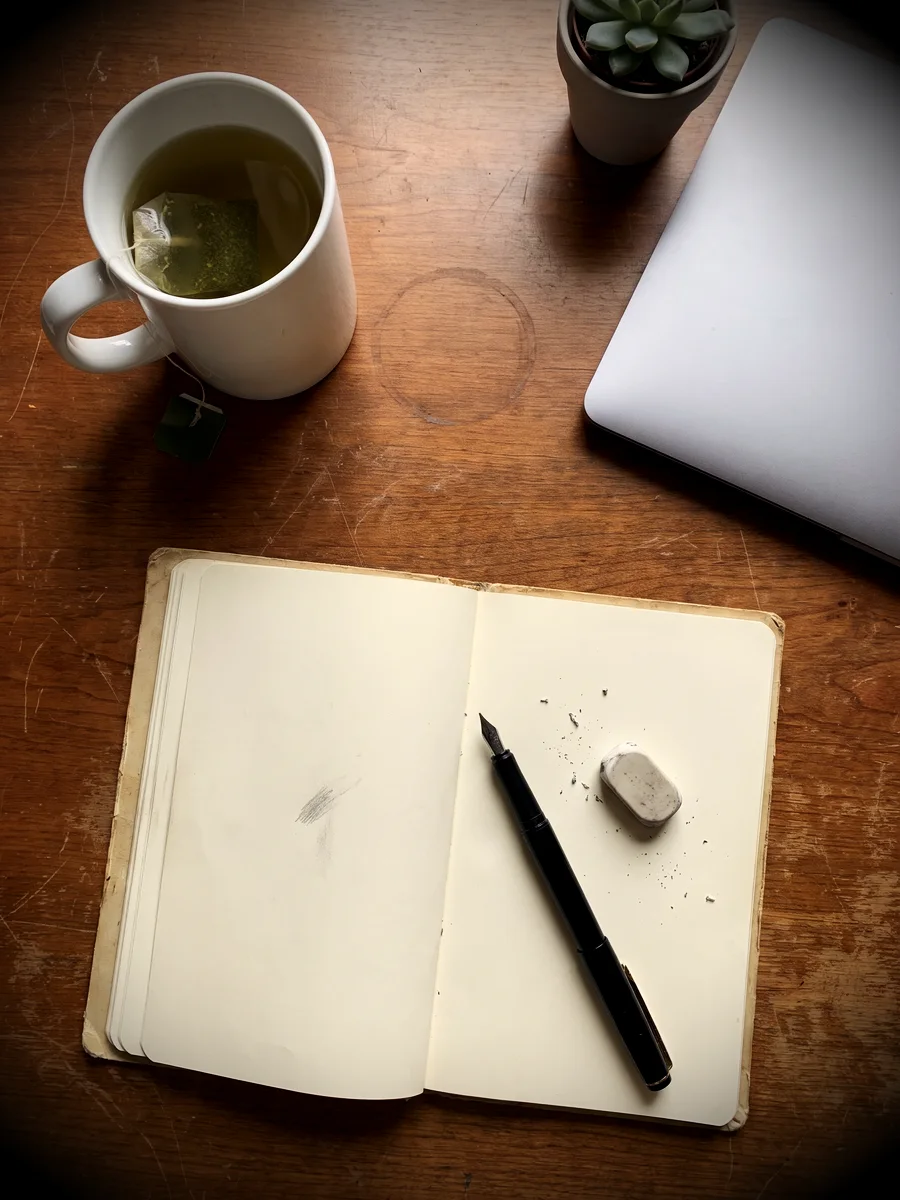
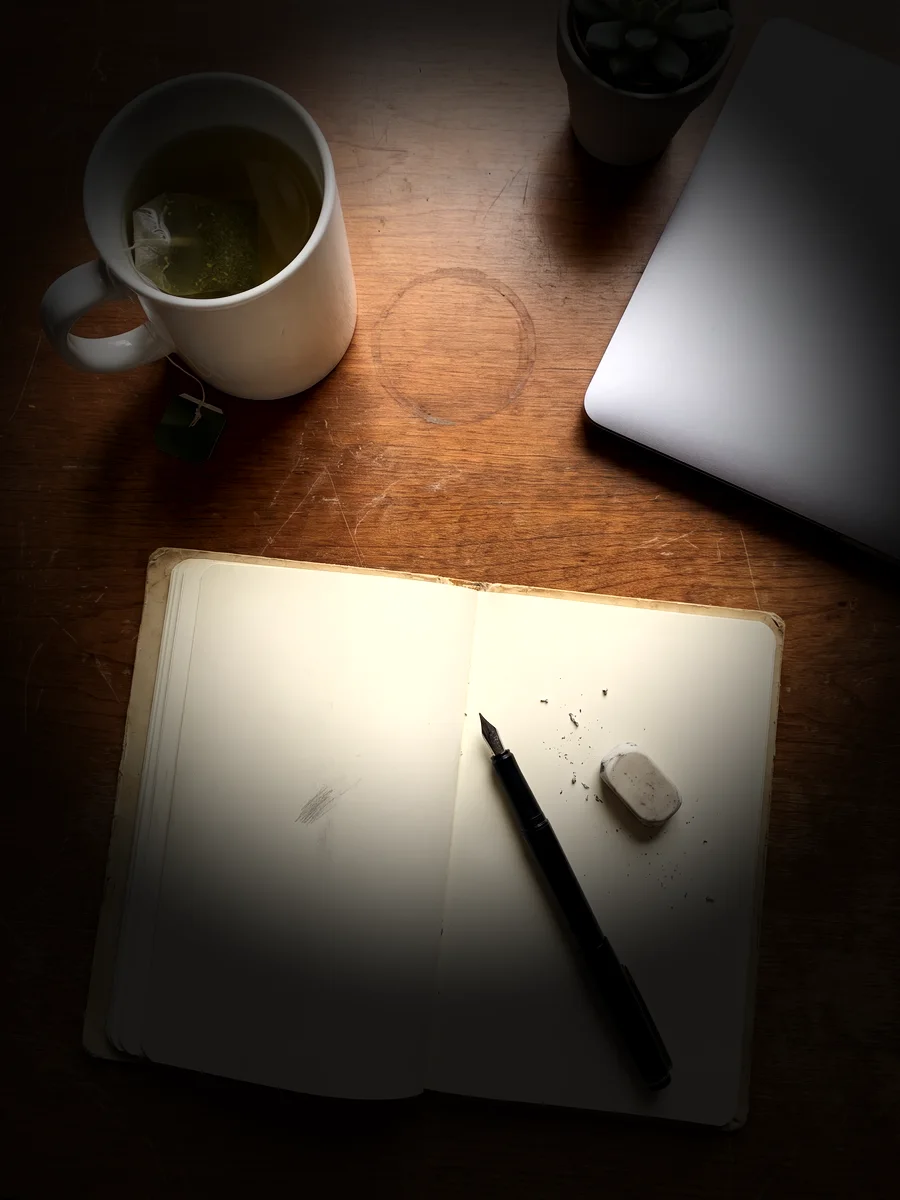
feat(filters): 스포트라이트 — 더 강하게(밖 ×0.1) + 위치 지정: 편집기에서 사진 탭, iOS 카메라에서 화면 탭(찍힌 사진에도 그 위치); 피사체 글로우 iOS 를 앱 sRGB 작업공간 기준으로 바로잡음(검증 도구가 선형이라 잘못 보정했던 것 되돌림) — 웹·iOS 결과 일치 확인; 미배포
Claude-Session: https://claude.ai/code/session_01H2YvAQhUpTna7rrNEqetDc

diff --git a/src/PhotoEditor.jsx b/src/PhotoEditor.jsx
@@ -184,7 +184,7 @@ function drawSticker(ctx, st, w, h) {
 const fxOf = (p) => ({
   grain: p?.fx?.grain || 0, vignette: p?.fx?.vignette || 0, leak: p?.fx?.leak || 0,
   glow: p?.fx?.glow || 0, blur: p?.fx?.blur || 0, shake: p?.fx?.shake || 0,
-  twinkle: p?.fx?.twinkle || 0, lowres: p?.fx?.lowres || 0,
+  twinkle: p?.fx?.twinkle || 0, lowres: p?.fx?.lowres || 0, spot: p?.fx?.spot || 0,
 });
 
 // src(1장) 또는 srcs(여러 장, 최대 10) 를 받는다. 여러 장이면 필터/효과는 전체
@@ -247,11 +247,14 @@ export default function PhotoEditor({ src, srcs, initialPresetKey = "none", init
     lens: 0,   // 렌즈 왜곡 보정 -1..1 (0 = 원본)
     geo: { tilt: 0, pv: 0, ph: 0 },
     geoAuto: null,
+    spotPos: null,
   });
   const [lookByIdx, setLookByIdx] = useState({});
   const lookOf = (i) => lookByIdx[i] || defaultLook(i);
+  // 스포트라이트 위치(사진별, 0~1) — 스포트라이트 필터일 때 사진을 탭하면 그 자리로(오너 2026-10-27).
+  const [spotPos, setSpotPos] = useState(null);
   function updateLook(patch) {
-    const next = { presetKey, fx, strength, fxAmt, lens, geo, geoAuto, ...patch };
+    const next = { presetKey, fx, strength, fxAmt, lens, geo, geoAuto, spotPos, ...patch };
     setPresetKey(next.presetKey);
     setFx(next.fx);
     setStrength(next.strength);
@@ -259,6 +262,7 @@ export default function PhotoEditor({ src, srcs, initialPresetKey = "none", init
     setLens(next.lens || 0);
     setGeo(next.geo || ZERO_GEO);
     setGeoAuto(next.geoAuto || null);
+    setSpotPos(next.spotPos || null);
     setLookByIdx((p) => ({ ...p, [idx]: next }));
   }
   function switchPhoto(i) {
@@ -270,6 +274,7 @@ export default function PhotoEditor({ src, srcs, initialPresetKey = "none", init
     setLens(lk.lens || 0);
     setGeo(lk.geo || ZERO_GEO);
     setGeoAuto(lk.geoAuto || null);
+    setSpotPos(lk.spotPos || null);
     const g = presetByKey(lk.presetKey).group;
     if (g) setChipGroup(g);
     setReady(false);
@@ -467,11 +472,11 @@ export default function PhotoEditor({ src, srcs, initialPresetKey = "none", init
         personMaskRef.current[idx] = null;
         personMaskFor(baseRef.current).then((m) => { personMaskRef.current[idx] = m; setMaskTick((t) => t + 1); });
       }
-      applyLookWithStrength(copy.data, w, h, presetByKey(presetKey), { ...fx, seed: GRAIN_SEED, faces: facesFor(idx, lens, geo), personMask: personMaskRef.current[idx] || undefined }, strength);
+      applyLookWithStrength(copy.data, w, h, presetByKey(presetKey), { ...fx, seed: GRAIN_SEED, faces: facesFor(idx, lens, geo), personMask: personMaskRef.current[idx] || undefined, spotPos: spotPos || undefined }, strength);
       ctx.putImageData(copy, 0, 0);
       if (dateStyle !== "none") drawDateStamp(ctx, w, h, dateStyle);
     });
-  }, [presetKey, fx, dateStyle, peeking, strength, lens, geo, idx, maskTick]); // eslint-disable-line react-hooks/exhaustive-deps
+  }, [presetKey, fx, dateStyle, peeking, strength, lens, geo, idx, maskTick, spotPos]); // eslint-disable-line react-hooks/exhaustive-deps
 
   useEffect(() => { if (ready) renderPreview(); }, [ready, renderPreview, idx]);
 
@@ -910,7 +915,7 @@ export default function PhotoEditor({ src, srcs, initialPresetKey = "none", init
       const lk = lookOf(i);
       const hasLook = lk.presetKey !== "none"
         || lk.fx.grain || lk.fx.vignette || lk.fx.leak || lk.fx.glow || lk.fx.blur || lk.fx.shake
-        || lk.fx.twinkle || lk.fx.lowres;
+        || lk.fx.twinkle || lk.fx.lowres || lk.fx.spot;
       // ⚠ 왜곡 보정은 룩이 없어도 저장본에 반영돼야 한다 — hasLook 에만 걸어두면
       //    "필터 없이 왜곡만 고친" 사진이 원본 그대로 저장된다.
       const g = lk.geo || {};
@@ -922,7 +927,7 @@ export default function PhotoEditor({ src, srcs, initialPresetKey = "none", init
         const out = await applyLookAsync({
           data: id.data, w, h,
           preset: hasLook ? presetByKey(lk.presetKey) : null,
-          effects: hasLook ? { ...lk.fx, seed: GRAIN_SEED, faces: facesFor(i, lk.lens, lk.geo),
+          effects: hasLook ? { ...lk.fx, seed: GRAIN_SEED, faces: facesFor(i, lk.lens, lk.geo), spotPos: (i === idx ? spotPos : lk.spotPos) || undefined,
             personMask: (lk.presetKey === "flashsoft" || lk.presetKey === "flashhard" || lk.presetKey === "subjectglow") ? (personMaskRef.current[i] || await personMaskFor(id)) || undefined : undefined } : {},
           strength: lk.strength,
           geo: hasGeo ? g : null, lens: lk.lens || 0,
@@ -1156,6 +1161,11 @@ export default function PhotoEditor({ src, srcs, initialPresetKey = "none", init
                 if (Date.now() - s.t > 320) return;                       // 길게 누름 = 원본 비교
                 if (Math.hypot(e.clientX - s.x, e.clientY - s.y) > 8) return;
                 if (s.hadSel) return;                                     // 선택 해제만
+                if (presetKey === "spotlight") {                          // 스포트라이트: 탭 = 조명 위치
+                  const r = e.currentTarget.getBoundingClientRect();
+                  const pos = { x: Math.min(1, Math.max(0, (e.clientX - r.left) / r.width)), y: Math.min(1, Math.max(0, (e.clientY - r.top) / r.height)) };
+                  hap.tap(); updateLook({ spotPos: pos }); return;
+                }
                 openTextAt(e.clientX, e.clientY);
               }}
               onPointerCancel={(e) => {
@@ -1276,6 +1286,7 @@ export default function PhotoEditor({ src, srcs, initialPresetKey = "none", init
                     // 프리셋 기본 효과까지 원탭 적용, 색감은 기본값(0.7 = 표준 룩)·효과는 1(프리셋 그대로)로 리셋
                     updateLook({ presetKey: p.key, fx: fxOf(p), strength: 0.7, fxAmt: 1 });
                     markFilterUsed(p.key);
+                    if (p.key === "spotlight") flashToast(getLang() === "ko" ? "사진을 탭하면 조명이 그 자리로 옮겨가요" : "Tap the photo to move the spotlight");
                   }}
                 >
                   <canvas

diff --git a/ios2/rimikimi/UI/Camera/LiveFilter.swift b/ios2/rimikimi/UI/Camera/LiveFilter.swift
@@ -45,7 +45,9 @@ enum LiveFilter {
         var grain: Double = 0, vignette: Double = 0, leak: Double = 0, glow: Double = 0, blur: Double = 0
         /// 저해상도 칸 크기(짧은 변 대비) — filters.js lowres
         var lowres: Double = 0
-        var any: Bool { grain > 0 || vignette > 0 || leak > 0 || glow > 0 || blur > 0 || lowres > 0 }
+        /// 스포트라이트 세기(filters.js spot) — 위치는 엔진의 `spotPos`(세운 프레임, 위가 0인 0~1).
+        var spot: Double = 0
+        var any: Bool { grain > 0 || vignette > 0 || leak > 0 || glow > 0 || blur > 0 || lowres > 0 || spot > 0 }
     }
 
     struct Preset {
@@ -140,7 +142,7 @@ enum LiveFilter {
         // 효과 5종(오너 2026-10-27 "효과 10개") — filters.js 와 같은 값.
         "lightleak": .init(temp: 14, tint: 4, ex: 0.06, con: 0.08, fade: 10, whitePull: 6, sat: 0.06, vib: 0.1, sh: [6, 0, -4], hi: [14, 6, -6], fx: .init(grain: 0.3, leak: 1.8)),
         "softfocus": .init(temp: 4, tint: 4, ex: 0.1, con: -0.2, fade: 14, whitePull: 10, sat: -0.06, vib: 0.06, sh: [4, 2, 4], hi: [8, 6, 4], fx: .init(glow: 1.0, blur: 0.1)),
-        "spotlight": .init(temp: 6, ex: -0.06, con: 0.32, sat: 0.04, vib: 0.06, sh: [-8, -8, -6], hi: [10, 8, 4], fx: .init(grain: 0.15, vignette: 2.6)),
+        "spotlight": .init(temp: 6, ex: -0.02, con: 0.32, sat: 0.04, vib: 0.06, sh: [-8, -8, -6], hi: [10, 8, 4], fx: .init(grain: 0.15, spot: 1)),
         "grainy": .init(temp: 6, tint: 2, con: 0.22, fade: 14, whitePull: 8, sat: -0.3, sh: [4, 2, -2], hi: [6, 4, -4], fx: .init(grain: 2.2, vignette: 0.35)),
         "haze": .init(temp: -8, tint: 2, ex: 0.12, con: -0.3, fade: 34, whitePull: 24, sat: -0.22, sh: [6, 8, 12], hi: [6, 8, 10], fx: .init(glow: 0.6, blur: 0.12)),
         "neonglow": .init(temp: -12, tint: 14, ex: 0.02, con: 0.3, sat: 0.3, vib: 0.2, sh: [6, -6, 22], hi: [10, 0, 14], hsl: [.init(c: 300, w: 50, h: 0, s: 0.5, l: 0.04), .init(c: 190, w: 40, h: 0, s: 0.45, l: 0.04)], fx: .init(glow: 0.8)),
@@ -636,6 +638,8 @@ extern "C" [[stitchable]] float4 lfInfl(coreimage::sampler src, coreimage::sampl
 
 /// 커널 묶음 + 프리셋 적용. 렌더 큐 한 곳에서만 쓴다(LUT 캐시가 잠금 없이 돈다).
 final class LiveFilterEngine {
+    /// 스포트라이트 위치(세운 프레임 기준 0~1, 위가 0). nil = 가운데 약간 위. 카메라 탭에서 화면을 탭하면 바뀐다.
+    var spotPos: CGPoint?
     private let kernels: [String: CIKernel]
     private var lutCache: [String: CIImage] = [:]
 
@@ -737,6 +741,20 @@ final class LiveFilterEngine {
         if p.fx.grain > 0 || p.fx.vignette > 0 || p.fx.leak > 0 {
             img = run("lfFx", ext, [img], [img, p.fx.grain, p.fx.vignette, p.fx.leak, 7, W, H])
         }
+        if p.fx.spot > 0 {
+            // 스포트라이트 — filters.js 와 같은 반경(짧은 변 0.5 × 0.45~1.15), 같은 세기(밖 ×0.1, 안 ×1.06).
+            let pos = spotPos ?? CGPoint(x: 0.5, y: 0.42), R = minWH * 0.5
+            let c = CIVector(x: ext.minX + pos.x * W, y: ext.minY + (1 - pos.y) * H)
+            let grad = CIFilter(name: "CIRadialGradient", parameters: ["inputCenter": c, "inputRadius0": R * 0.45, "inputRadius1": R * 1.15,
+                                                                     "inputColor0": CIColor.white, "inputColor1": CIColor.black])!.outputImage!.cropped(to: ext)
+            // 작업공간이 sRGB(contextOptions)라 웹과 같은 곱셈을 그대로 쓴다.
+            func ks(_ v: CGFloat) -> CIImage {
+                img.applyingFilter("CIColorMatrix", parameters: ["inputRVector": CIVector(x: v, y: 0, z: 0, w: 0), "inputGVector": CIVector(x: 0, y: v, z: 0, w: 0),
+                                                                 "inputBVector": CIVector(x: 0, y: 0, z: v, w: 0)])
+            }
+            let dark = 1 - 0.9 * CGFloat(p.fx.spot), lit = 1 + 0.06 * CGFloat(p.fx.spot)
+            img = ks(lit).applyingFilter("CIBlendWithMask", parameters: [kCIInputBackgroundImageKey: ks(dark), kCIInputMaskImageKey: grad]).cropped(to: ext)
+        }
         if p.fx.glow > 0 {
             let soft = box(img, jsRound(minWH * 0.015) + 2, W, H)
             img = run("lfGlow", ext, [img, soft], [img, soft, p.fx.glow * 0.85, p.fx.glow * 10])
@@ -835,14 +853,14 @@ final class LiveFilterEngine {
                 .applyingFilter("CIColorClamp")
         }
         guard (try? VNImageRequestHandler(ciImage: img).perform([segReq])) != nil, let pb = segReq.results?.first?.pixelBuffer else {
-            return mul(img, 0.6).cropped(to: ext)
+            return mul(img, 0.8).cropped(to: ext)
         }
         // 마스크는 색이 아니라 데이터 — 색공간 없이 읽어야 감마로 값이 줄지 않는다(실측: 머리 쪽 글로우가 빠졌다).
         let raw = CIImage(cvPixelBuffer: pb, options: [.colorSpace: NSNull()])
         let m = raw.transformed(by: .init(scaleX: W / raw.extent.width, y: H / raw.extent.height)).clampedToExtent()
             .applyingGaussianBlur(sigma: Double(W) * 0.0015).cropped(to: ext)
-        // CI 는 선형 공간에서 곱한다 — 웹(sRGB)의 ×0.62 와 같게 보이려면 0.62^2.2 ≈ 0.35(실측: 0.62 면 0.8 처럼 보였다).
-        let bg = mul(img.applyingFilter("CIColorControls", parameters: [kCIInputSaturationKey: 0.85]), 0.35)
+        // 작업공간이 sRGB(contextOptions)라 웹과 같은 ×0.62 를 그대로 쓴다.
+        let bg = mul(img.applyingFilter("CIColorControls", parameters: [kCIInputSaturationKey: 0.85]), 0.62)
         let base = img.applyingFilter("CIBlendWithMask", parameters: [kCIInputBackgroundImageKey: bg, kCIInputMaskImageKey: m])
         let inv = m.applyingFilter("CIColorInvert")
         let near = mul(m.clampedToExtent().applyingGaussianBlur(sigma: Double(W) * 0.0036).cropped(to: ext), 1.6)

diff --git a/src/filters.js b/src/filters.js
@@ -209,8 +209,9 @@ export const FILM_PRESETS = [
     temp: 4, tint: 4, ex: 0.1, con: -0.2, fade: 14, whitePull: 10, sat: -0.06, vib: 0.06, sh: [4, 2, 4], hi: [8, 6, 4],
     fx: { glow: 1.0, blur: 0.1 } },
   { key: "spotlight", ko: "스포트라이트", en: "Spotlight", group: "mood",
-    temp: 6, tint: 0, ex: -0.06, con: 0.32, fade: 0, whitePull: 0, sat: 0.04, vib: 0.06, sh: [-8, -8, -6], hi: [10, 8, 4],
-    fx: { vignette: 2.6, grain: 0.15 } },
+    temp: 6, tint: 0, ex: -0.02, con: 0.32, fade: 0, whitePull: 0, sat: 0.04, vib: 0.06, sh: [-8, -8, -6], hi: [10, 8, 4],
+    // 조명 동그라미 밖을 깊게 어둡게(오너 10/27 "더 강하게"). 위치 = effects.spotPos {x,y}(0~1) — 편집기에서 사진을 탭해 옮긴다. 없으면 가운데 약간 위.
+    fx: { spot: 1, grain: 0.15 } },
   { key: "grainy",    ko: "거친 입자",   en: "Heavy Grain", group: "mood",
     temp: 6, tint: 2, ex: 0, con: 0.22, fade: 14, whitePull: 8, sat: -0.3, vib: 0, sh: [4, 2, -2], hi: [6, 4, -4],
     fx: { grain: 2.2, vignette: 0.35 } },
@@ -286,7 +287,7 @@ export function applyLookWithStrength(data, w, h, preset, effects = {}, strength
     }
   }
   // 효과는 항상 원 강도로 (프리셋 위에)
-  if (effects.grain || effects.vignette || effects.leak || effects.blur || effects.shake || effects.glow || effects.lowres) {
+  if (effects.grain || effects.vignette || effects.leak || effects.blur || effects.shake || effects.glow || effects.lowres || effects.spot) {
     applyLook(data, w, h, null, effects);
   }
   return data;
@@ -513,6 +514,8 @@ export function applyLook(data, w, h, preset, effects = {}) {
 
   const grain = effects.grain || 0;
   const vig = effects.vignette || 0;
+  const spot = effects.spot || 0;
+  const spX = (effects.spotPos?.x ?? 0.5) * w, spY = (effects.spotPos?.y ?? 0.42) * h, spR = Math.min(w, h) * 0.5;
   const leak = effects.leak || 0;
   const blur = effects.blur || 0;
   const shake = effects.shake || 0;
@@ -675,6 +678,15 @@ export function applyLook(data, w, h, preset, effects = {}) {
         // 0.55 부터 서서히 어두워짐
         const t = d < 0.55 ? 0 : (d - 0.55) / 0.45;
         const f = 1 - vig * 0.5 * t * t;
+        r *= f; g *= f; b *= f;
+      }
+
+      if (spot) {
+        // 스포트라이트 — 조명 원(반경 = 짧은 변의 ~22%) 안은 살짝 밝게, 밖으로 갈수록 깊게(최대 ×0.1) 어둡게.
+        const d = Math.hypot(x - spX, y - spY) / spR;
+        const t = d < 0.45 ? 0 : d > 1.15 ? 1 : (d - 0.45) / 0.7;
+        const e = t * t * (3 - 2 * t);
+        const f = (1 + 0.06 * spot) * (1 - e) + (1 - 0.9 * spot) * e;
         r *= f; g *= f; b *= f;
       }
 

diff --git a/ios2/rimikimi/UI/Camera/BurstCameraModel.swift b/ios2/rimikimi/UI/Camera/BurstCameraModel.swift
@@ -189,10 +189,10 @@ final class BurstCameraModel {
         }
         // 필터는 **셔터를 누른 순간** 값으로 고정한다 — 사진은 화질 우선 처리라 최대 1초 뒤에 도착하는데, 그때 읽으면
         // 그 사이 바꾼 필터가 들어갔다(오너 2026-10-11 "필터 2개로 1장씩 찍었는데 하나로만 저장됐어").
-        let key = live?.presetKey ?? "none", fx = live?.fxAmount ?? 0.7
+        let key = live?.presetKey ?? "none", fx = live?.fxAmount ?? 0.7, spot = live?.spotPos
         let id = s.uniqueID
         let d = ShotDelegate(wantMirror: want) { [weak self] image in
-            Task { @MainActor in self?.inFlight[id] = nil; self?.add(image, key: key, fx: fx) }
+            Task { @MainActor in self?.inFlight[id] = nil; self?.add(image, key: key, fx: fx, spot: spot) }
         }
         inFlight[id] = d             // 콜백이 올 때까지 살려 둔다
         output.capturePhoto(with: s, delegate: d)
@@ -204,7 +204,7 @@ final class BurstCameraModel {
         }
     }
 
-    private func add(_ image: UIImage?, key: String, fx: Double) {
+    private func add(_ image: UIImage?, key: String, fx: Double, spot: CGPoint? = nil) {
         guard let image else { return }
         if savesOnCapture {
             // 카메라 탭: 원본은 남기지 않는다 — 필터본만 사진첩에(오너 2026-10-11 "원본은 없애고 필터 촬영본만").
@@ -212,6 +212,7 @@ final class BurstCameraModel {
             Self.bakeQueue.async { [weak self] in
                 var out = image
                 if key != "none", let engine = Self.bakeEngine, let ci = CIImage(image: image) {
+                    engine.spotPos = spot
                     let r = engine.render(frame: ci, key: key, intensity: fx)
                     if let cg = Self.bakeCtx.createCGImage(r, from: r.extent, format: .RGBA8, colorSpace: CGColorSpace(name: CGColorSpace.sRGB)!) { out = UIImage(cgImage: cg, scale: 1, orientation: .up) }
                 }

diff --git a/ios2/rimikimi/UI/Camera/LiveFilterPreview.swift b/ios2/rimikimi/UI/Camera/LiveFilterPreview.swift
@@ -31,6 +31,22 @@ final class LiveFilterRenderer: NSObject, AVCaptureVideoDataOutputSampleBufferDe
 
     private var _front = false
     private var _mirrored = false
+    private var _spotPos: CGPoint?
+    /// 스포트라이트 위치(세운 화면 0~1, 위=0) — 스포트라이트 필터일 때 화면 탭으로 옮긴다(오너 2026-10-27).
+    var spotPos: CGPoint? {
+        get { lock.withLock { _spotPos } }
+        set { lock.withLock { _spotPos = newValue } }
+    }
+    /// 화면(뷰) 좌표 → 세운 프레임 0~1(위=0). aspectFill 반영. 프레임 전이면 nil.
+    func imagePoint(_ pt: CGPoint, in view: CGSize) -> CGPoint? {
+        let img = lock.withLock { _imageSize }
+        guard img.width > 0, img.height > 0, view.width > 0, view.height > 0 else { return nil }
+        let s = max(view.width / img.width, view.height / img.height)
+        let u = (pt.x - (view.width - img.width * s) / 2) / (img.width * s)
+        let v = (pt.y - (view.height - img.height * s) / 2) / (img.height * s)
+        guard (0...1).contains(u), (0...1).contains(v) else { return nil }
+        return CGPoint(x: u, y: v)
+    }
     /// 마지막으로 그린 (세로로 세운) 프레임 크기 — 탭 좌표 → 장치 좌표 변환에 쓴다.
     private var _imageSize: CGSize = .zero
 
@@ -172,7 +188,7 @@ final class LiveFilterRenderer: NSObject, AVCaptureVideoDataOutputSampleBufferDe
             }
             faces = lock.withLock { Date().timeIntervalSince(_facesSeen) < 0.5 ? _faces : [] }
         }
-        if key != "none", let engine { img = engine.render(frame: img, key: key, intensity: fxAmt, faces: faces) }
+        if key != "none", let engine { engine.spotPos = spotPos; img = engine.render(frame: img, key: key, intensity: fxAmt, faces: faces) }
 
         // 화면 꽉 채우기(aspectFill) — 기존 미리보기 레이어와 같은 구도
         let e = img.extent

diff --git a/ios2/rimikimi/UI/Filter/CameraFilterTab.swift b/ios2/rimikimi/UI/Filter/CameraFilterTab.swift
@@ -43,6 +43,8 @@ struct CameraFilterTab: View {
                         LiveFilterPreview(renderer: live)
                             .contentShape(Rectangle())
                             .onTapGesture(coordinateSpace: .local) { pt in
+                                // 스포트라이트: 탭한 자리로 조명을 옮긴다(초점도 같이 그 자리로).
+                                if selected == "spotlight", let ip = live.imagePoint(pt, in: geo.size) { live.spotPos = ip }
                                 if let dp = live.devicePoint(pt, in: geo.size) {
                                     model.focus(at: dp)
                                 } else {
